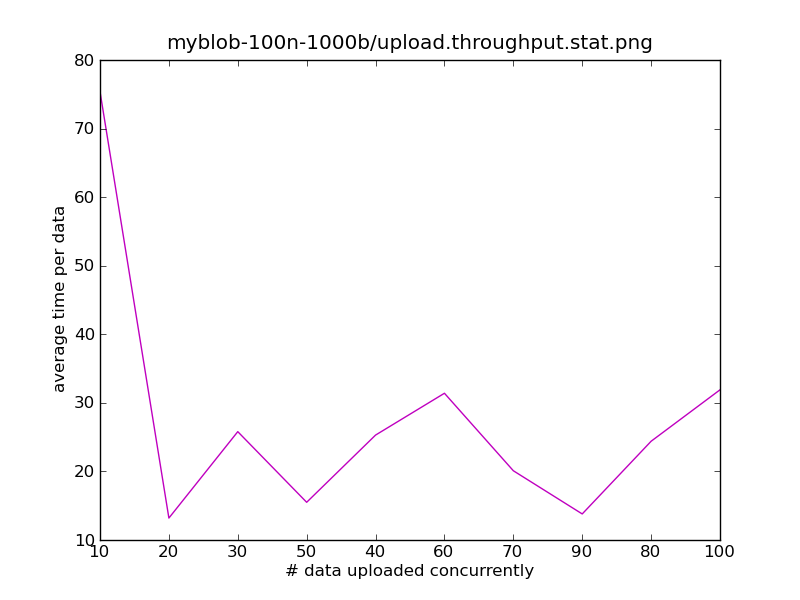
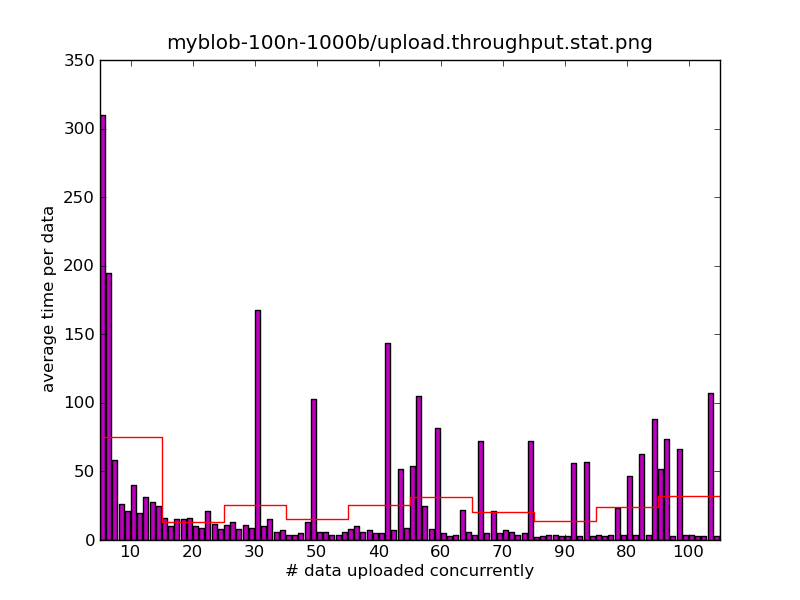
MODIFY plot.py

Changed region(s): [[0.0312, 0.18, 0.9375, 0.93], [0.0625, 0.09, 0.125, 0.12], [0.25, 0.75, 0.2812, 0.78]]

diff --git a/log/plot.py b/log/plot.py
@@ -83,17 +83,24 @@ def plot_throughput(d, files, key, all_data):
     gcf().clf()
     gcf().set_size_inches(8, 6)
 
-    throu = []
+    total, throu = 0, []
     for i, num in enumerate(files):
         li = []
         for data in all_data[i]:
             t = zip(*data)
             li.append((max(t[2])-min(t[0]))/len(data))
+        r = range(total, total+len(li), 1)
+        b0 = bar(r, li, color='m')
+        total += len(li)
         throu.append(avg(li))
-    plot(throu, color='m')
-
     n_nums, nums = len(files), files.keys()
-    xticks(arange(n_nums), nums)
+    width = float(total) / n_nums
+
+    r, t = arange(n_nums+1)*width, throu + [0]
+    plot(r, t, color='r', drawstyle='steps-post')
+
+    r = arange(n_nums)*width
+    xticks(r+width*.5, nums)
     xlabel('# data %sed concurrently' % key)
     ylabel('average time per data')
 
